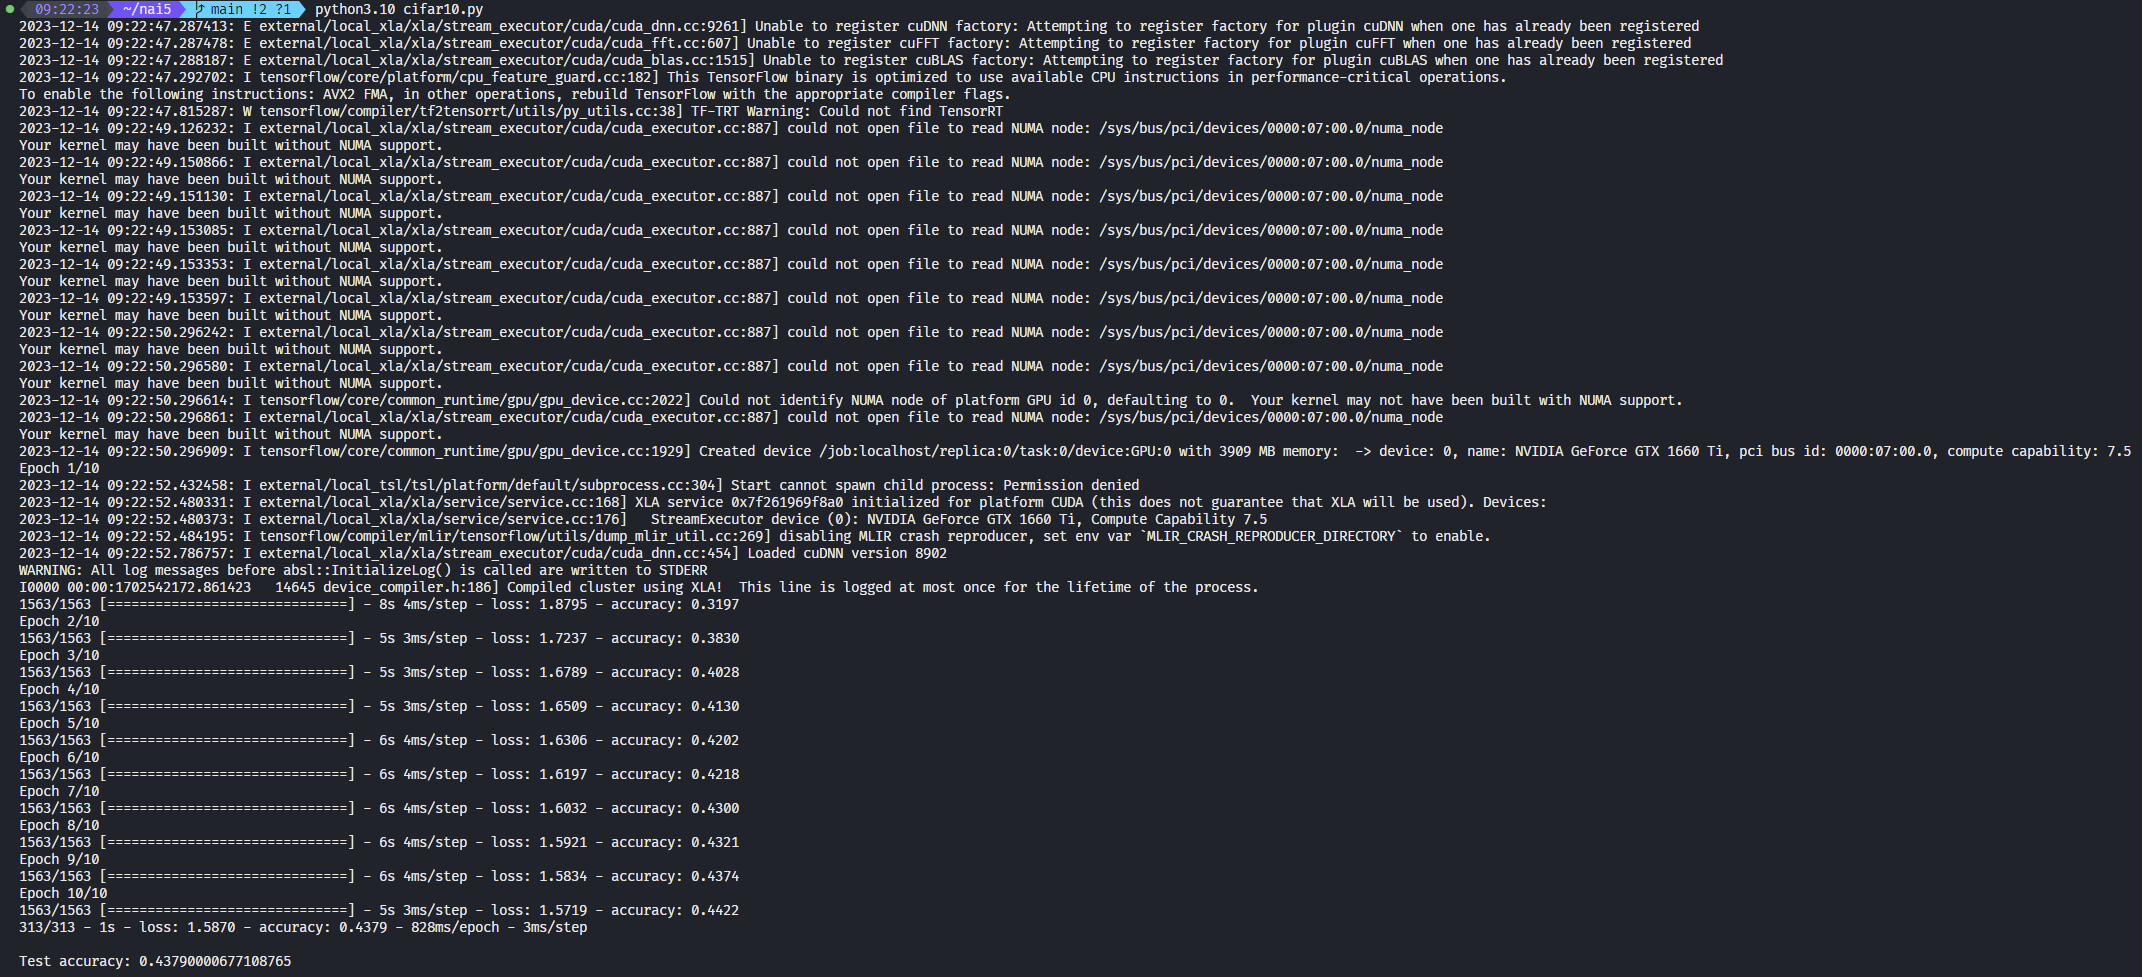
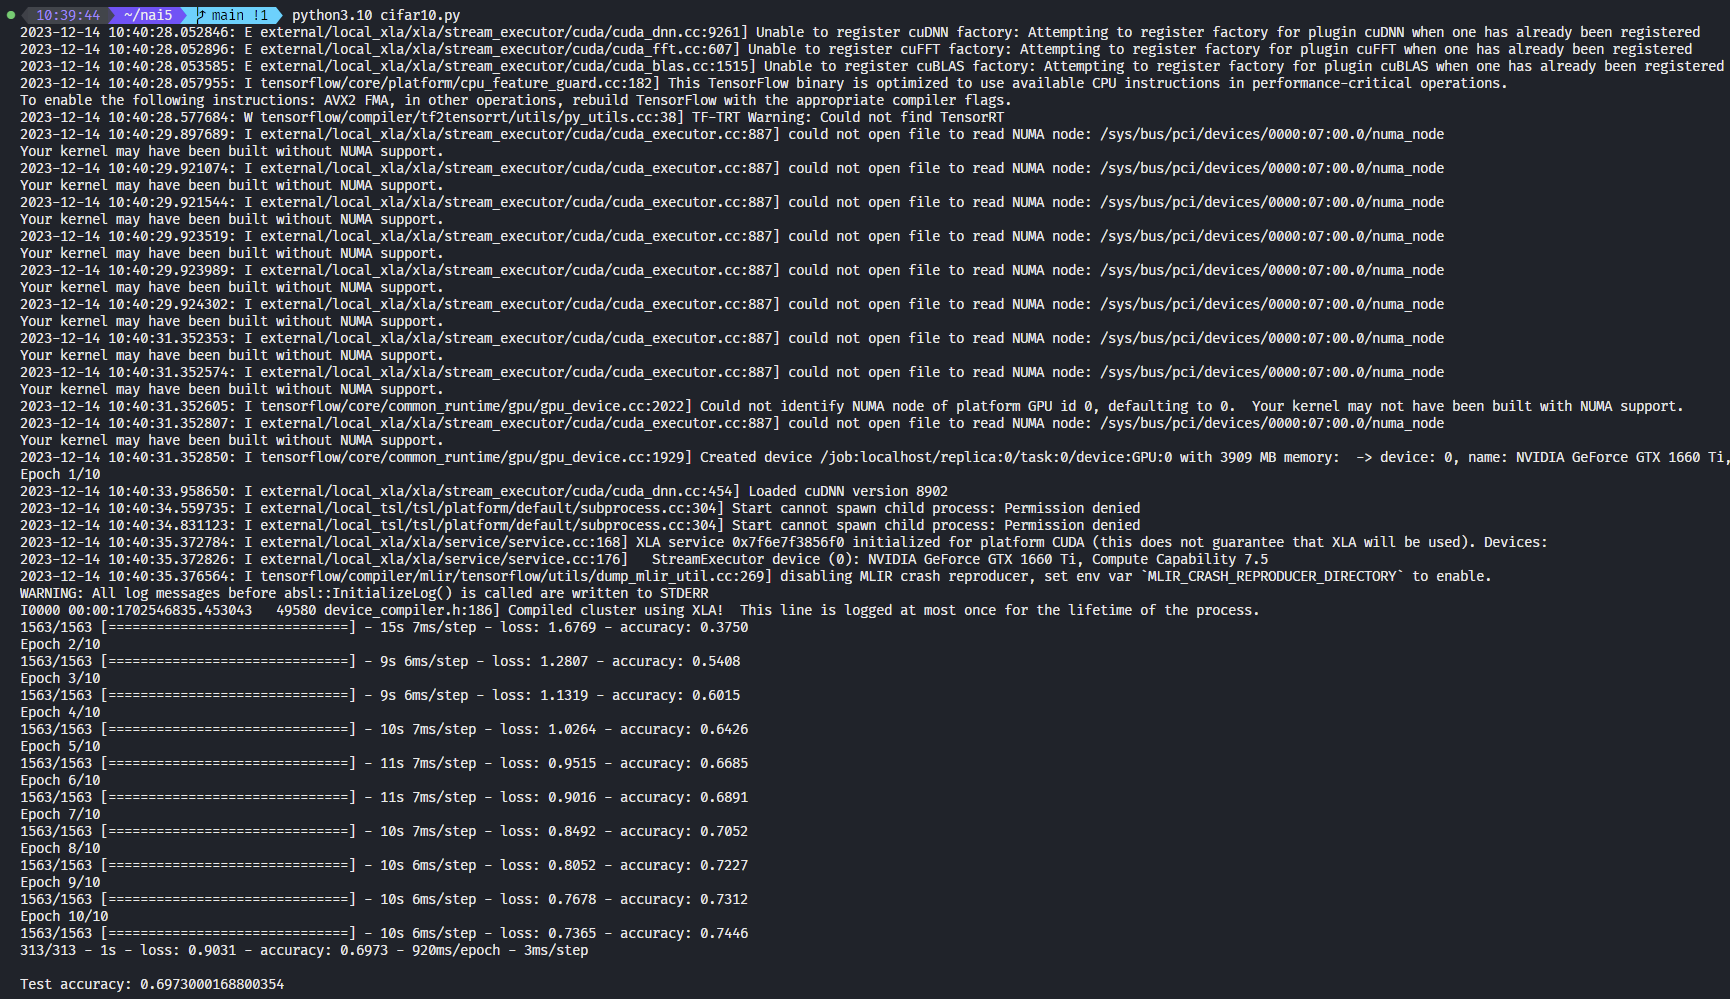
feat: better cifar

Changed region(s): [[0.0, 0.0, 1.0, 1.0]]

diff --git a/cifar10.py b/cifar10.py
@@ -22,10 +22,23 @@ test_images = test_images / 255.0
 
 model = keras.Sequential(
     [
-        keras.layers.Flatten(input_shape=(32, 32, 3)),
-        keras.layers.Dense(128, activation="relu"),
-        keras.layers.Dense(128, activation="relu"),
-        keras.layers.Dense(128, activation="relu"),
+        keras.layers.Conv2D(
+            32,
+            (3, 3),
+            activation='relu',
+            input_shape=(32, 32, 3)
+        ),
+        keras.layers.MaxPooling2D((2, 2)),
+        keras.layers.Conv2D(64, (3, 3), activation='relu'),
+        keras.layers.MaxPooling2D((2, 2)),
+        keras.layers.Conv2D(64, (3, 3), activation='relu'),
+        keras.layers.Flatten(),
+        keras.layers.Dense(64, activation="relu"),
+        keras.layers.Dropout(0.1),
+        keras.layers.Dense(64, activation="relu"),
+        keras.layers.Dropout(0.1),
+        keras.layers.Dense(64, activation="relu"),
+        keras.layers.Dropout(0.1),
         keras.layers.Dense(10),
         keras.layers.Softmax(),
     ]
@@ -33,7 +46,7 @@ model = keras.Sequential(
 
 model.compile(
     optimizer="adam",
-    loss=keras.losses.SparseCategoricalCrossentropy(from_logits=True),
+    loss=keras.losses.SparseCategoricalCrossentropy(),
     metrics=["accuracy"],
 )
 
